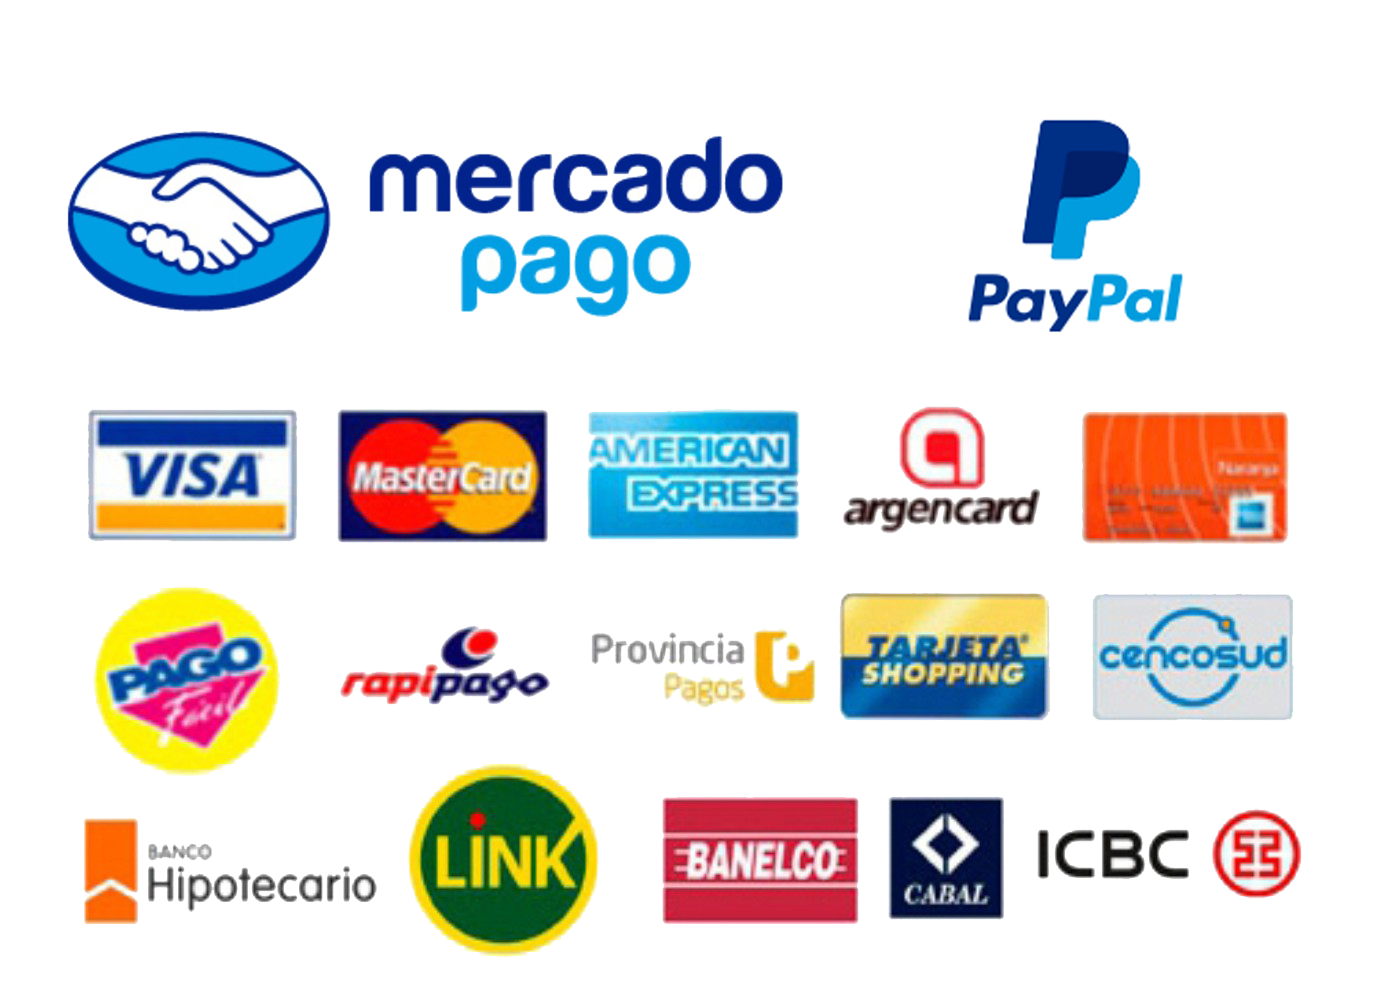
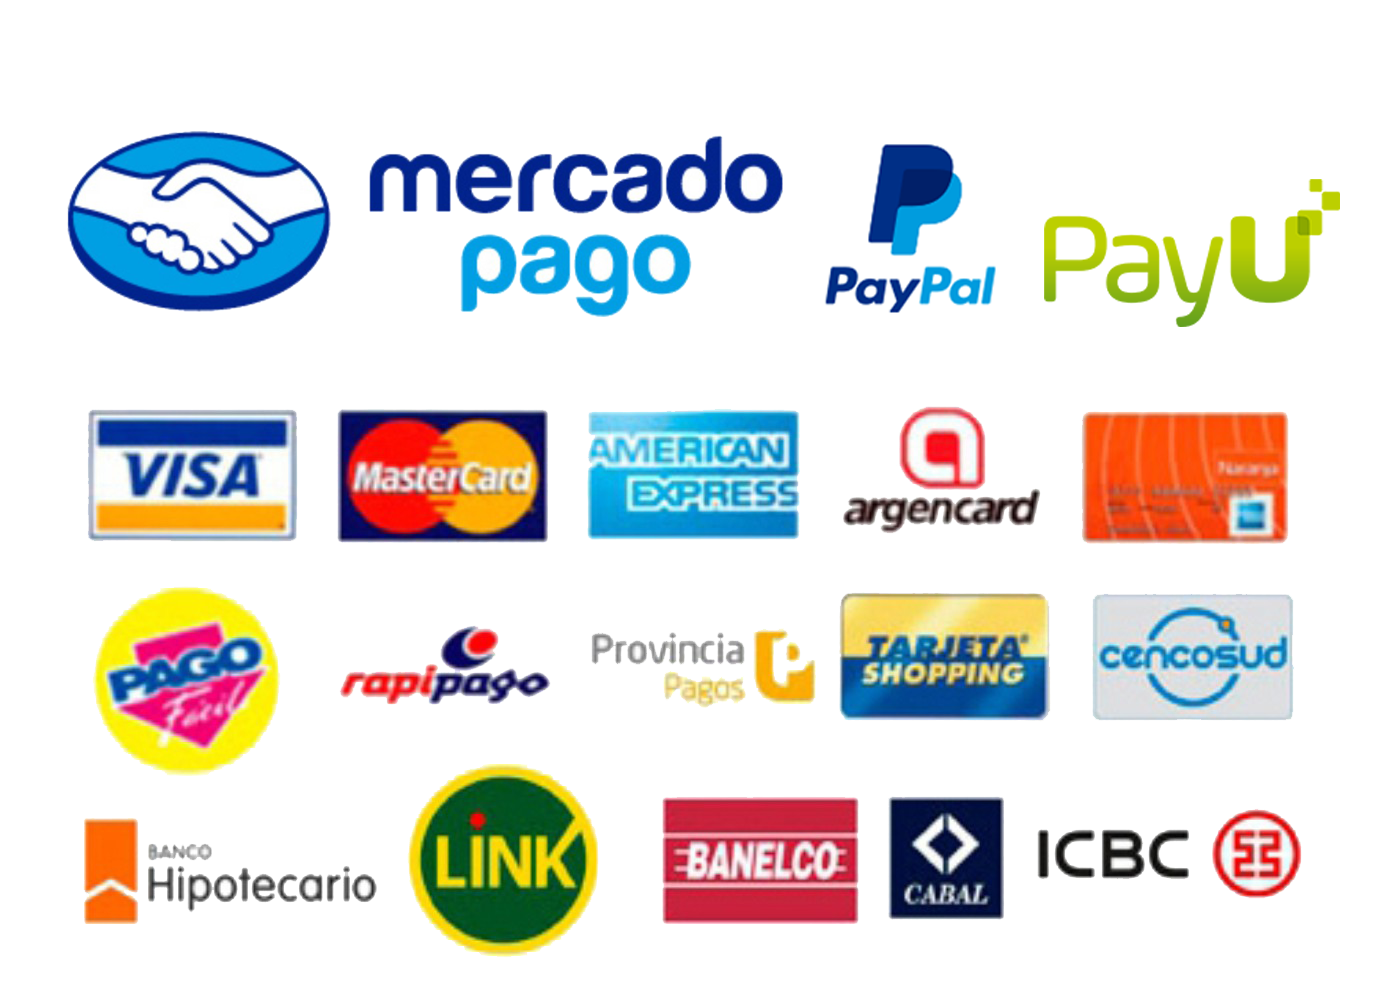
trabajo 15hs 7/11

Changed region(s): [[0.5804, 0.0924, 0.9775, 0.339]]

diff --git a/src/app/Boost/Components/boost.component.html b/src/app/Boost/Components/boost.component.html
@@ -16,16 +16,16 @@
       </div>
     </section>
     <!-- ..................................................... ROW 1 ..................................................... -->
-    <section class="row rowRed" id="sombraArriba">
+    <section class="row rowRed maxRow" id="sombraArriba">
         <div class="rowContainer">
 
             <div class="col-md-12">
                     <div class="info-container">
                         <p class="category-title">¿Cómo funciona?</p>
                         <div class="section-description">
-                                1. Elige el servicio que deseas comprar. <br>
-                                2. Hace Click en “Comprar” para ser redirigido a la plataforma de pagos correspondiente y completar la transacción.<br>
-                                3. Una vez acreditado el pago comunícate con alguno de nosotros vía chat de la página o chat Facebook para ingresar tu cuenta a nuestra base de datos y empezar el trabajo.<br><br>
+                                <strong>1.</strong> Elige el servicio que deseas comprar. <br>
+                                <strong>2.</strong> Hace Click en “Comprar” para ser redirigido a la plataforma de pagos correspondiente y completar la transacción.<br>
+                                <strong>3.</strong> Una vez acreditado el pago comunícate con alguno de nosotros vía chat de la página o chat Facebook para ingresar tu cuenta a nuestra base de datos y empezar el trabajo.<br><br>
                                 Los precios son expresados en Pesos Argentinos, de todos modos, una vez hecha tu compra, se transforma a tu moneda local
                         </div><!-- end .description -->
                     </div><!-- end .category-info -->
@@ -34,7 +34,7 @@
         </div>
     </section>
 <!-- ..................................................... ROW 2 ..................................................... -->
-    <section class="row rowWhite" id="sombra">
+    <section class="row rowWhite maxRow" id="sombra">
         <div class="rowContainer">
 
             <div class="col-md-12">
@@ -42,9 +42,9 @@
                     <p class="category-title">Calculador de Boost a medida</p>
                     <div class="section-description" style="font-size: 14px">
                             Un rapido calculo en nuestra calculadora, les proveera del precio exacto para recibir boost a la división deseada. Ofrecemos Boost de división, Boost de victorias y las 10 partidas de posicionamiento al inicio de la temporada.<br>
-                            Boost de Divisiones: Ingresa tu rank actual, el cual está en su perfil de invocador (Ej. Oro III). Luego, ingresa la liga deseada de su boost, en 'Grado Deseado'. En ese momento, se te informara del precio final, expresado en pesos argentinos.<br>
-                            Boost de Victorias: Ingresa su rank actual, el cual está en tu perfil de invocador (Ej. Oro III). Luego, ingresa la cantidad de victorias que desees. En ese momento, se te informara del precio final, expresado en pesos argentinos.<br>
-                            Partidas de Posicionamiento: Ingresa la cantidad de partidas de posicionamiento que desees. Un total de 10 partidas de posicionamiento son necesarias para determinar tu división al inicio de la temporada. En ese momento, se te informara del precio final, expresado en pesos argentinos.
+                            <strong>Boost de Divisiones:</strong> Ingresa tu rank actual, el cual está en su perfil de invocador (Ej. Oro III). Luego, ingresa la liga deseada de su boost, en 'Grado Deseado'. En ese momento, se te informara del precio final, expresado en pesos argentinos.<br>
+                            <strong>Boost de Victorias:</strong> Ingresa su rank actual, el cual está en tu perfil de invocador (Ej. Oro III). Luego, ingresa la cantidad de victorias que desees. En ese momento, se te informara del precio final, expresado en pesos argentinos.<br>
+                            <strong>Partidas de Posicionamiento:</strong> Ingresa la cantidad de partidas de posicionamiento que desees. Un total de 10 partidas de posicionamiento son necesarias para determinar tu división al inicio de la temporada. En ese momento, se te informara del precio final, expresado en pesos argentinos.
                     </div>
                 </div><!-- end .column-2 -->
             </div>
@@ -52,7 +52,7 @@
         </div>
     </section>
 <!-- ..................................................... ROW 3 ..................................................... -->
-    <section class="row rowRed" id="sombraArriba">
+    <section class="row rowRed maxRow" id="sombraArriba">
         <div class="rowContainer" >
 
 
@@ -72,7 +72,7 @@
     
 <!-- ..................................................... ROW 4 ..................................................... -->
     
-    <section class="row row4White" id="sombra">
+    <section class="row row4White maxRow" id="sombra">
         <div class="rowContainer">
 
             <div class="col-md-12">
@@ -88,7 +88,7 @@
         </div>
     </section>
 <!-- ..................................................... ROW 5 ..................................................... -->
-    <section class="row rowRed" id="sombraArriba">
+    <section class="row rowRed maxRow" id="sombraArriba">
             <div class="rowContainer" >
     
                 <div class="col-md-12">

diff --git a/src/app/Work/Components/work.component.html b/src/app/Work/Components/work.component.html
@@ -1,12 +1,12 @@
 <!-- ..................................................... HEADER ..................................................... -->
-<partial-header title='Contacto' description='Contactate con nosotros!' selected='6'></partial-header>
+<partial-header title='Trabaja con nosotros' description='Sumate a nuestro equipo de boosters!!' selected='6'></partial-header>
 <!-- ..................................................... CONTENIDO ..................................................... -->
 <div class="containerWeb">
 <!-- ..................................................... SEPARADOR ..................................................... -->
             <div class="categories-nav-hold">
                 <div class="categories-nav">
                     <div class="container">
-                        <span class="title">Contactanos via Facebook, Instagram o por Mail!!</span>
+                        <span class="title">Llená el formulario para que podamos conocerte mejor</span>
                     </div>
                 </div>
             </div>
@@ -31,12 +31,13 @@
                     JUNIOR BOOSTERS 
                 </div>
                 <div class="section-description">
-                    Liga: Diamante 5 - Diamante 2, sin suspensiones recientes 
-                    (al menos 100 de honor en la cuenta. Comprobaremos el monto del honor, ya que se restablece a 0 en la suspensión del tribunal). 
-                    Restricciones: 1. El pago equivale al 80% de los refuerzos habituales. 2. No se puede boostear por encima del Platino 3
+                    Liga: Diamante 5 - Diamante 2, sin suspensiones recientes <br>
+                    (al menos 100 de honor en la cuenta. Comprobaremos el monto del honor, ya que se restablece a 0 en la suspensión del tribunal). <br>
+                    Restricciones: 1. No se puede boostear por encima del Platino 3
                 </div>
                                             
             </div>
+            <img src="../../../assets/images/yasuo.png" alt="" style="height:500px; margin-top:10%;">
         </div>
         <!-- ..................................................... ROW 2 COLUMN 2 ..................................................... -->
         <div class="col-md-6">

diff --git a/src/app/Boost/Module/primeras.component.html b/src/app/Boost/Module/primeras.component.html
@@ -26,23 +26,25 @@
                 <div class="text-center">
                     <h2>Tu Orden:</h2>
 
-                    <ul>
+                    <ul style='margin-top: -18px;'>
                         <li>
-                            <h3>{{cantidadVictorias}} Victorias - {{currentName}} en Season pasada </h3>
+                            <h3>{{cantidadVictorias}} Victorias</h3>
+                            <h5>{{currentName}} en Season pasada </h5>
                         </li>
                         <li>
                             
-                        <strong>
-                            Costo total: <h3 style="color: green;"> {{costo}} ARS </h3>
-        
-                        </strong>
+                            <strong>
+                                Costo total: <h2 style="color: green;"> {{costo}} $ </h2>
+            
+                            </strong>
+                            <p style="font-size:12px; margin-top: -10px;"> expresado en pesos argentinos </p>
                         </li>
                     </ul>
                 </div>
 
                 <div class="text-center">
                         <button type="button" class="hx-btn hx-btn-positive" id="btnPago" (click)="modal.open()">
-                            Comprar
+                            Comprar con Payu
                         </button>
                         <modal #modal>
                                 <modal-header>
@@ -54,9 +56,13 @@
                                     </div>
                                 </modal-content>
                         </modal>
+                        <div style="font-size:12px">
+                            Buscas otros medios de pago?
+                            <a routerLink="/contact" routerLinkActive="active">Contactanos!!</a>
+                        </div>
                 </div>
                 
-            <div style="padding-left:30%">
+            <div style="margin-top:2em; padding-left:30%">
                     <img src="../../../assets/images/pagos.png" style="width:200px;">
             </div>
 

diff --git a/src/app/Boost/Module/subir.component.html b/src/app/Boost/Module/subir.component.html
@@ -32,21 +32,22 @@
 
                     <ul>
                         <li>
-                            <h2>{{currentName}} <img src="../../../assets/images/flechaVerde.png" style="width:30px;"> {{desiredName}}</h2>
+                            <h2>{{currentName}} -- {{desiredName}}</h2>
                         </li>
                         <li>
                             
                         <strong>
-                            Costo total: <h3 style="color: green;"> {{costo}} ARS </h3>
+                            Costo total: <h2 style="color: green;"> {{costo}} $ </h2>
         
                         </strong>
+                        <p style="font-size:12px; margin-top: -10px;"> expresado en pesos argentinos </p>
                         </li>
                     </ul>
                 </div>
 
                 <div class="text-center">
                         <button type="button" class="hx-btn hx-btn-positive" id="btnPago" (click)="modal.open()">
-                            Comprar
+                            Comprar con Payu
                         </button>
                         <modal #modal>
                                 <modal-header>
@@ -58,9 +59,13 @@
                                     </div>
                                 </modal-content>
                         </modal>
+                        <div style="font-size:12px">
+                            Buscas otros medios de pago?
+                            <a routerLink="/contact" routerLinkActive="active">Contactanos!!</a>
+                        </div>
                 </div>
                 
-            <div style="padding-left:30%">
+            <div style="margin-top:2em; padding-left:30%">
                     <img src="../../../assets/images/pagos.png" style="width:200px;">
             </div>
 

diff --git a/src/app/Boost/Module/netas.component.html b/src/app/Boost/Module/netas.component.html
@@ -32,16 +32,17 @@
                         </li>
                         <li>
                             
-                        <strong>
-                            Costo total: <h3 style="color: green;"> {{costo}} ARS </h3>
-        
-                        </strong>
+                            <strong>
+                                Costo total: <h2 style="color: green;"> {{costo}} $ </h2>
+            
+                            </strong>
+                            <p style="font-size:12px; margin-top: -10px;"> expresado en pesos argentinos </p>
                         </li>
                     </ul>
                 </div>
                 <div class="text-center">
                     <button type="button" class="hx-btn hx-btn-positive" id="btnPago" (click)="modal.open()">
-                        Comprar
+                        Comprar con Payu
                     </button>
                     <modal #modal>
                             <modal-header>
@@ -53,13 +54,14 @@
                                 </div>
                             </modal-content>
                     </modal>
-                </div>
-                    <div class="payments-others">
+                    <div style="font-size:12px">
                         Buscas otros medios de pago?
                         <a routerLink="/contact" routerLinkActive="active">Contactanos!!</a>
                     </div>
+                </div>
+                   
 
-            <div style="padding-left:30%">
+            <div style="margin-top:2em; padding-left:30%">
                     <img src="../../../assets/images/pagos.png" style="width:200px;">
             </div>
 

diff --git a/src/assets/css/estilos.css b/src/assets/css/estilos.css
@@ -537,8 +537,17 @@ li {
   margin-bottom: 30px;
 }
 
-.containerWeb .row {
+/* .containerWeb .row {
   min-height: 35em;
+} */
+
+.maxRow {
+  max-height: 500px;
+
+}
+
+.maxRow .info-container {
+  margin-top: 12%;
 }
 
 .rowGrey {
@@ -594,7 +603,7 @@ li {
   }
 
   #skt{
-    height:510px;
+    height:500px;
   }
 } 
 
@@ -657,6 +666,10 @@ li {
 .info-container {
   margin-top: 15%;
   margin-bottom: 15%;
+
+}
+.info-container.maxH335 {
+  max-height: 335px;
 }
 
 .faqCont {

diff --git a/src/app/FAQ/Components/faq.component.html b/src/app/FAQ/Components/faq.component.html
@@ -115,8 +115,8 @@
         </div>
 </section>
 <!-- ..................................................... ROW 2 ..................................................... -->     
-<section class="row row4Red" style="min-height:300px" id="sombraArriba">
-    <div class="rowContainer">
+<section  class="row row4Red"  id="sombraArriba">
+    <div class="rowContainer" >
 
         <div class="col-md-6">
             <div class="info-container">

diff --git a/src/app/Home/Components/home.component.html b/src/app/Home/Components/home.component.html
@@ -70,7 +70,7 @@
                     
                 </div>
                 <div class="col-md-6">
-                    <div class="info-container">
+                    <div class="info-container maxH335">
                         <p class="category-title">Trabaja con Nosotros</p>
                         <div class="category-title totals">
                             Gana dinero y divertite al mismo tiempo!
